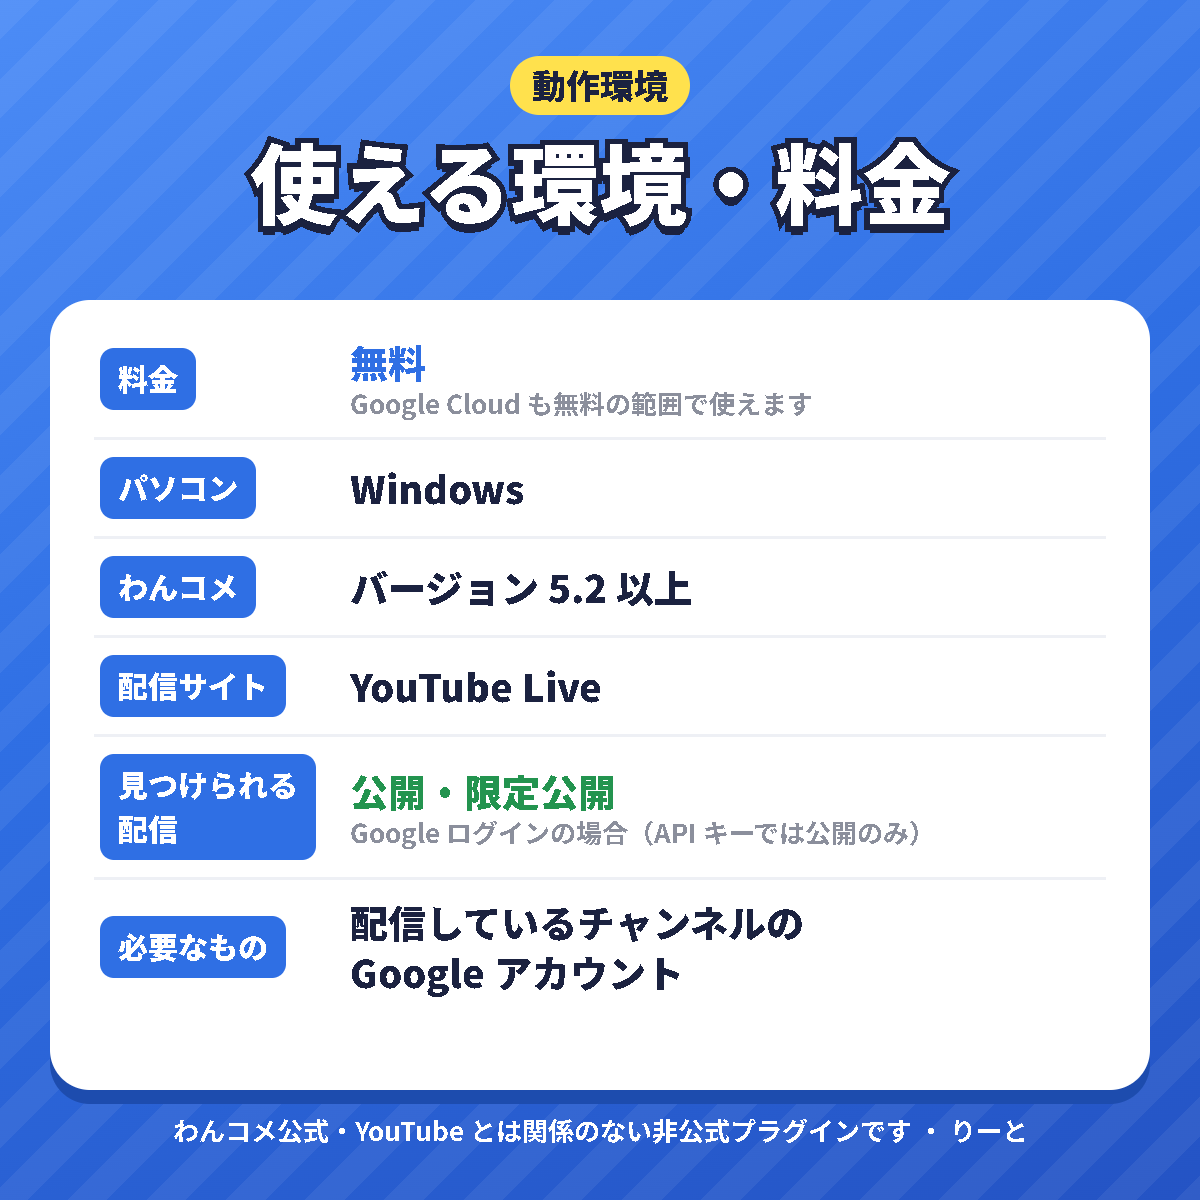
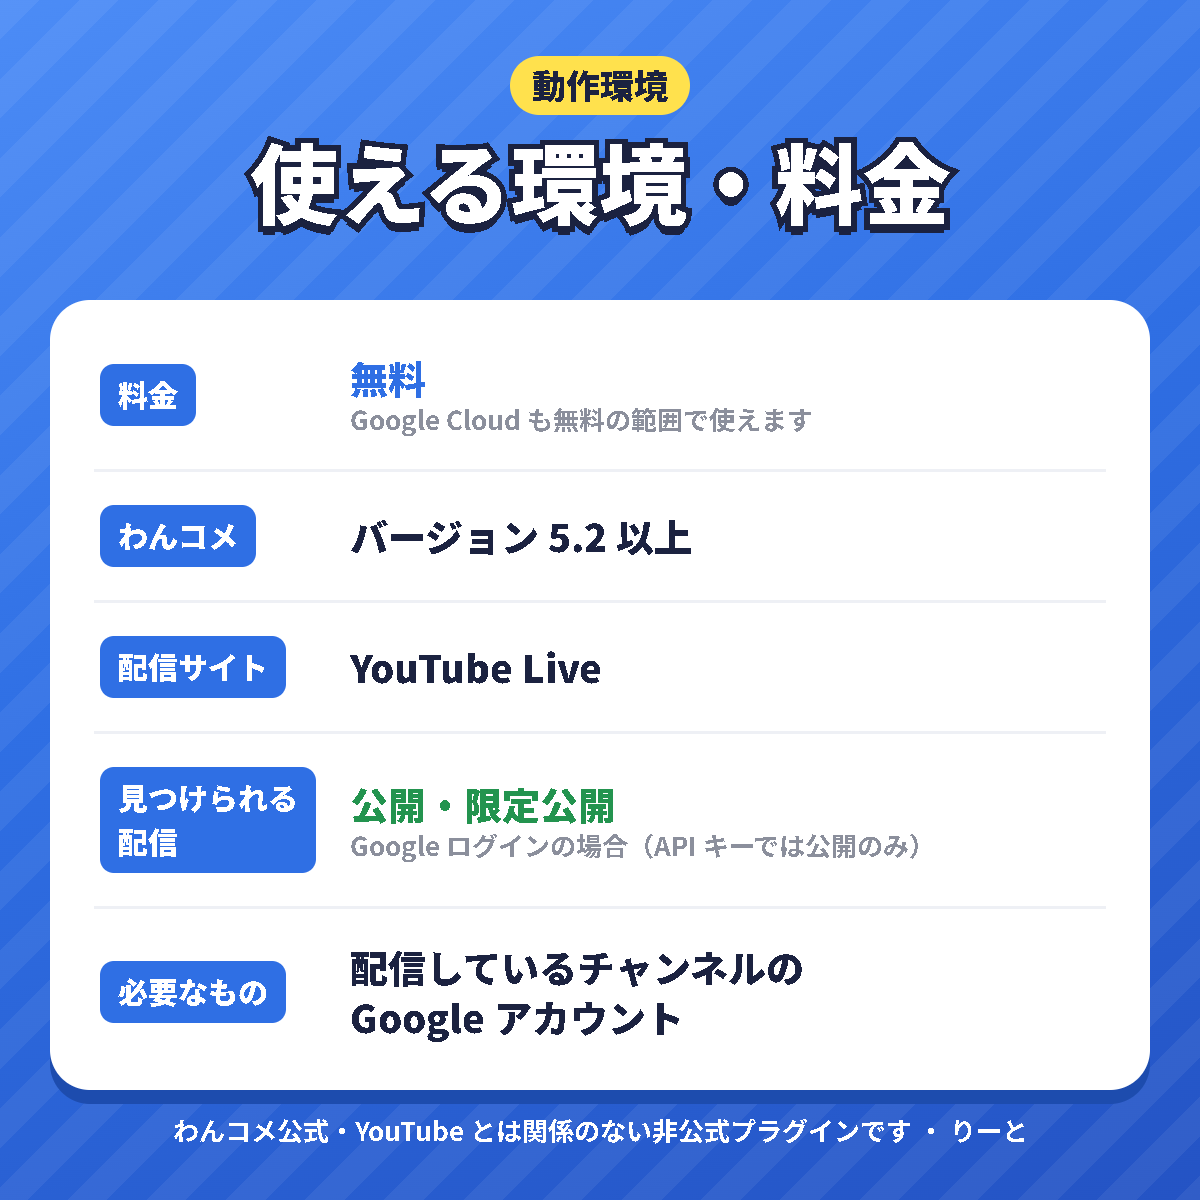
docs: 動作環境から「Windows」の記載を外す
Windows 専用の処理は使っておらず、Windows と書いていたのは確認した環境だったため。
Mac は未確認であることをサポートページのよくある質問に書き、マニュアルに Mac での zip の展開方法を足した。

diff --git a/site/manual.html b/site/manual.html
@@ -29,7 +29,7 @@
 
 <h2>用意するもの</h2>
 <ul>
-<li>わんコメ 5.2 以上（Windows）</li>
+<li>わんコメ 5.2 以上</li>
 <li>配信しているチャンネルの Google アカウント</li>
 <li>プラグインの zip（<a href="https://github.com/Blacky018/onecomme-yt-live-autoset/releases/latest">ダウンロードページ</a>、または BOOTH）</li>
 </ul>
@@ -38,7 +38,7 @@
 <!-- ===================================================== -->
 <h2 id="install">1. プラグインをわんコメに入れる</h2>
 <ol class="steps">
-<li>ダウンロードした zip を右クリックして「<strong>すべて展開</strong>」を押します。</li>
+<li>ダウンロードした zip を右クリックして「<strong>すべて展開</strong>」を押します（Mac はダブルクリック）。</li>
 <li>わんコメの「<strong>プラグイン</strong>」画面を開き、「<strong>プラグインフォルダ</strong>」ボタンを押します。フォルダが開きます。</li>
 <li>展開したフォルダの中の <code>yt-live-autoset</code> フォルダを、開いたプラグインフォルダにドラッグして入れます。</li>
 <li>わんコメの「プラグイン」画面で「<strong>再読み込み</strong>」を押し、「配信枠オートセット（非公式）」を<strong>有効</strong>にします。</li>

diff --git a/docs/booth/src/image-4.html b/docs/booth/src/image-4.html
@@ -6,7 +6,7 @@
 <style>
   .panel { top: 300px; height: 790px; padding: 20px 44px; }
   table { width: 100%; border-collapse: collapse; }
-  th, td { padding: 17px 6px; border-bottom: 3px solid #eef0f5; vertical-align: middle; text-align: left; }
+  th, td { padding: 33px 6px; border-bottom: 3px solid #eef0f5; vertical-align: middle; text-align: left; }
   tr:last-child th, tr:last-child td { border-bottom: none; }
   th { width: 250px; }
   th span {
@@ -31,7 +31,6 @@
   <div class="panel">
     <table>
       <tr><th><span>料金</span></th><td class="free">無料<small>Google Cloud も無料の範囲で使えます</small></td></tr>
-      <tr><th><span>パソコン</span></th><td>Windows</td></tr>
       <tr><th><span>わんコメ</span></th><td>バージョン 5.2 以上</td></tr>
       <tr><th><span>配信サイト</span></th><td>YouTube Live</td></tr>
       <tr><th><span>見つけられる<br>配信</span></th><td><span class="ok">公開・限定公開</span><small>Google ログインの場合（API キーでは公開のみ）</small></td></tr>

diff --git a/site/support.html b/site/support.html
@@ -33,6 +33,12 @@
 </details>
 
 <details class="faq">
+<summary>Mac でも使えますか？</summary>
+<p>Windows 専用の処理は使っていないので、Mac 版のわんコメでも動く作りです。ただし、作者は Windows でしか動作を確認していません。Mac で使ってうまくいかないときは、下のフォームから教えてください。</p>
+<p>zip は、Mac ではダブルクリックで展開できます。</p>
+</details>
+
+<details class="faq">
 <summary>新しいバージョンに更新したい</summary>
 <p>配布されている zip の中の <code>yt-live-autoset</code> フォルダで、プラグインフォルダの中の同じ名前のフォルダを上書きし、「再読み込み」を押してください。設定やログインはそのまま残ります。</p>
 </details>
